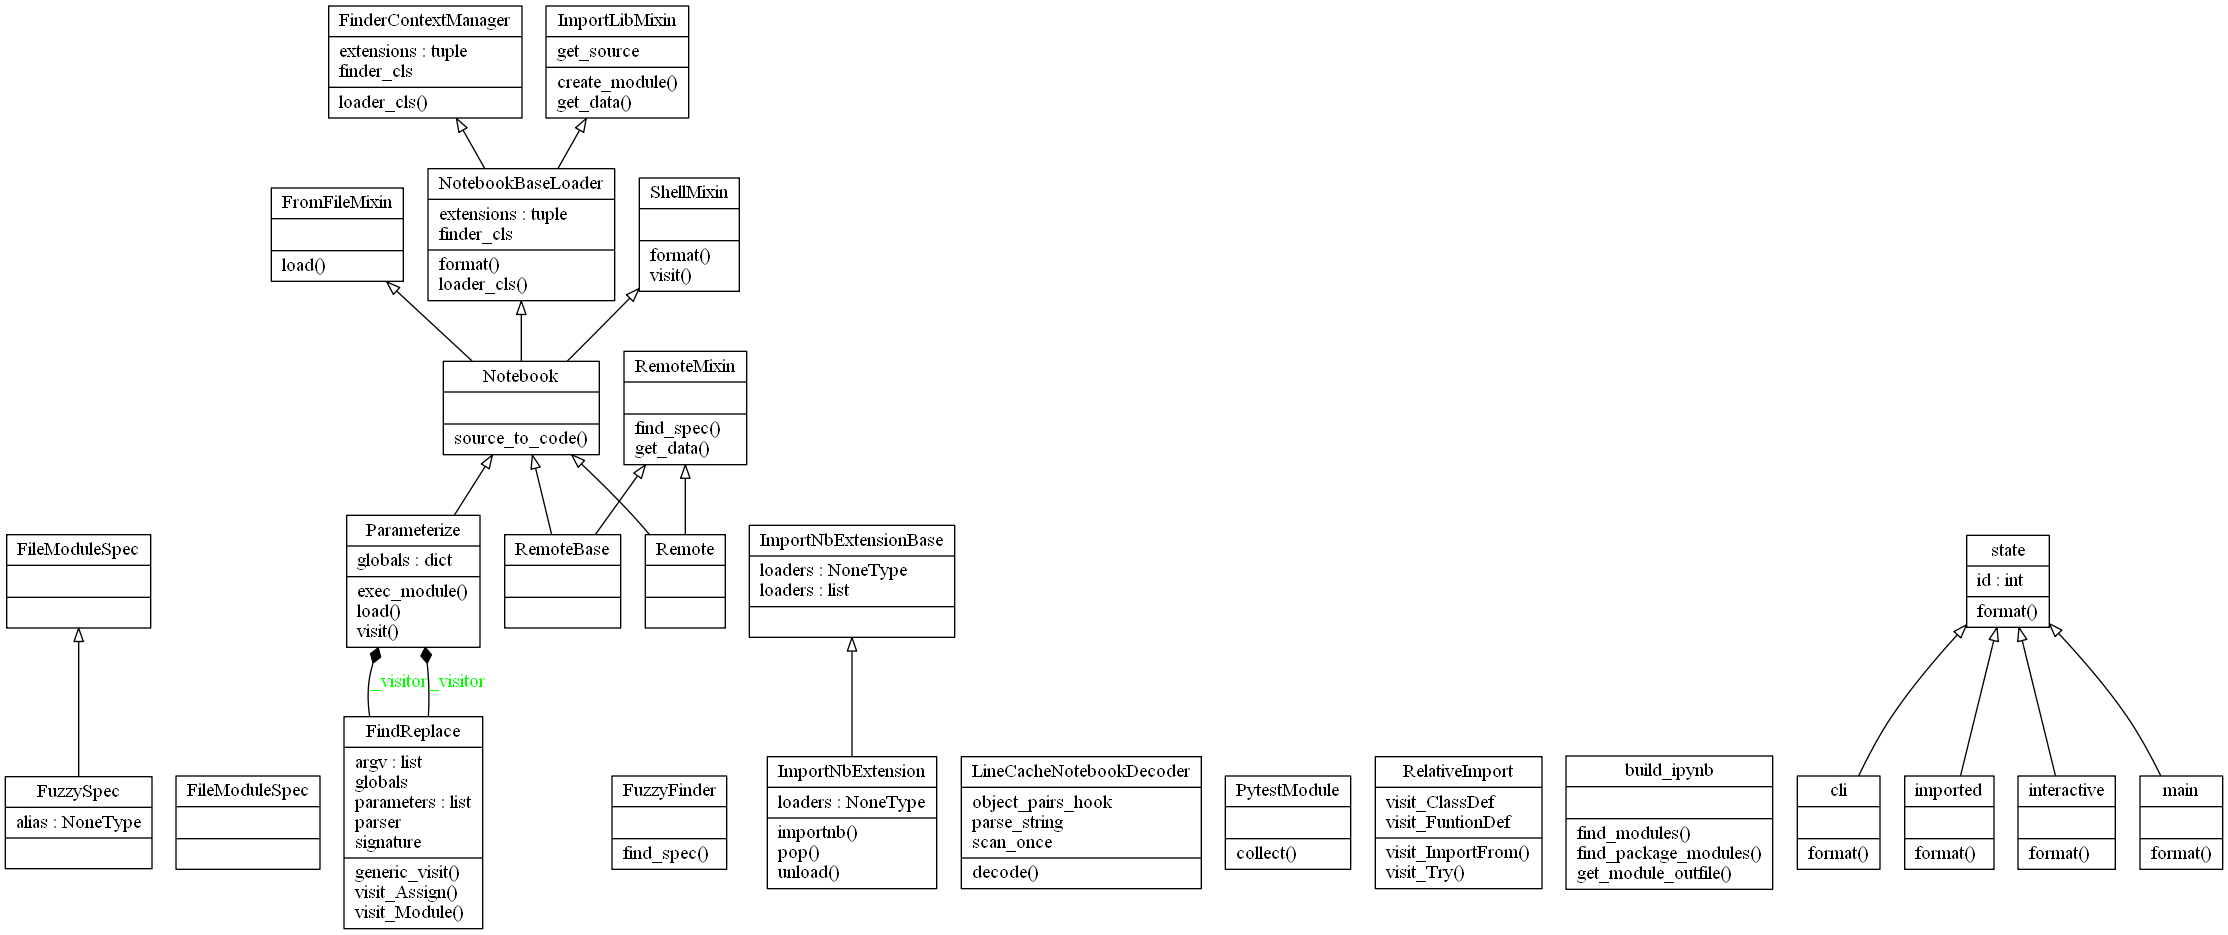
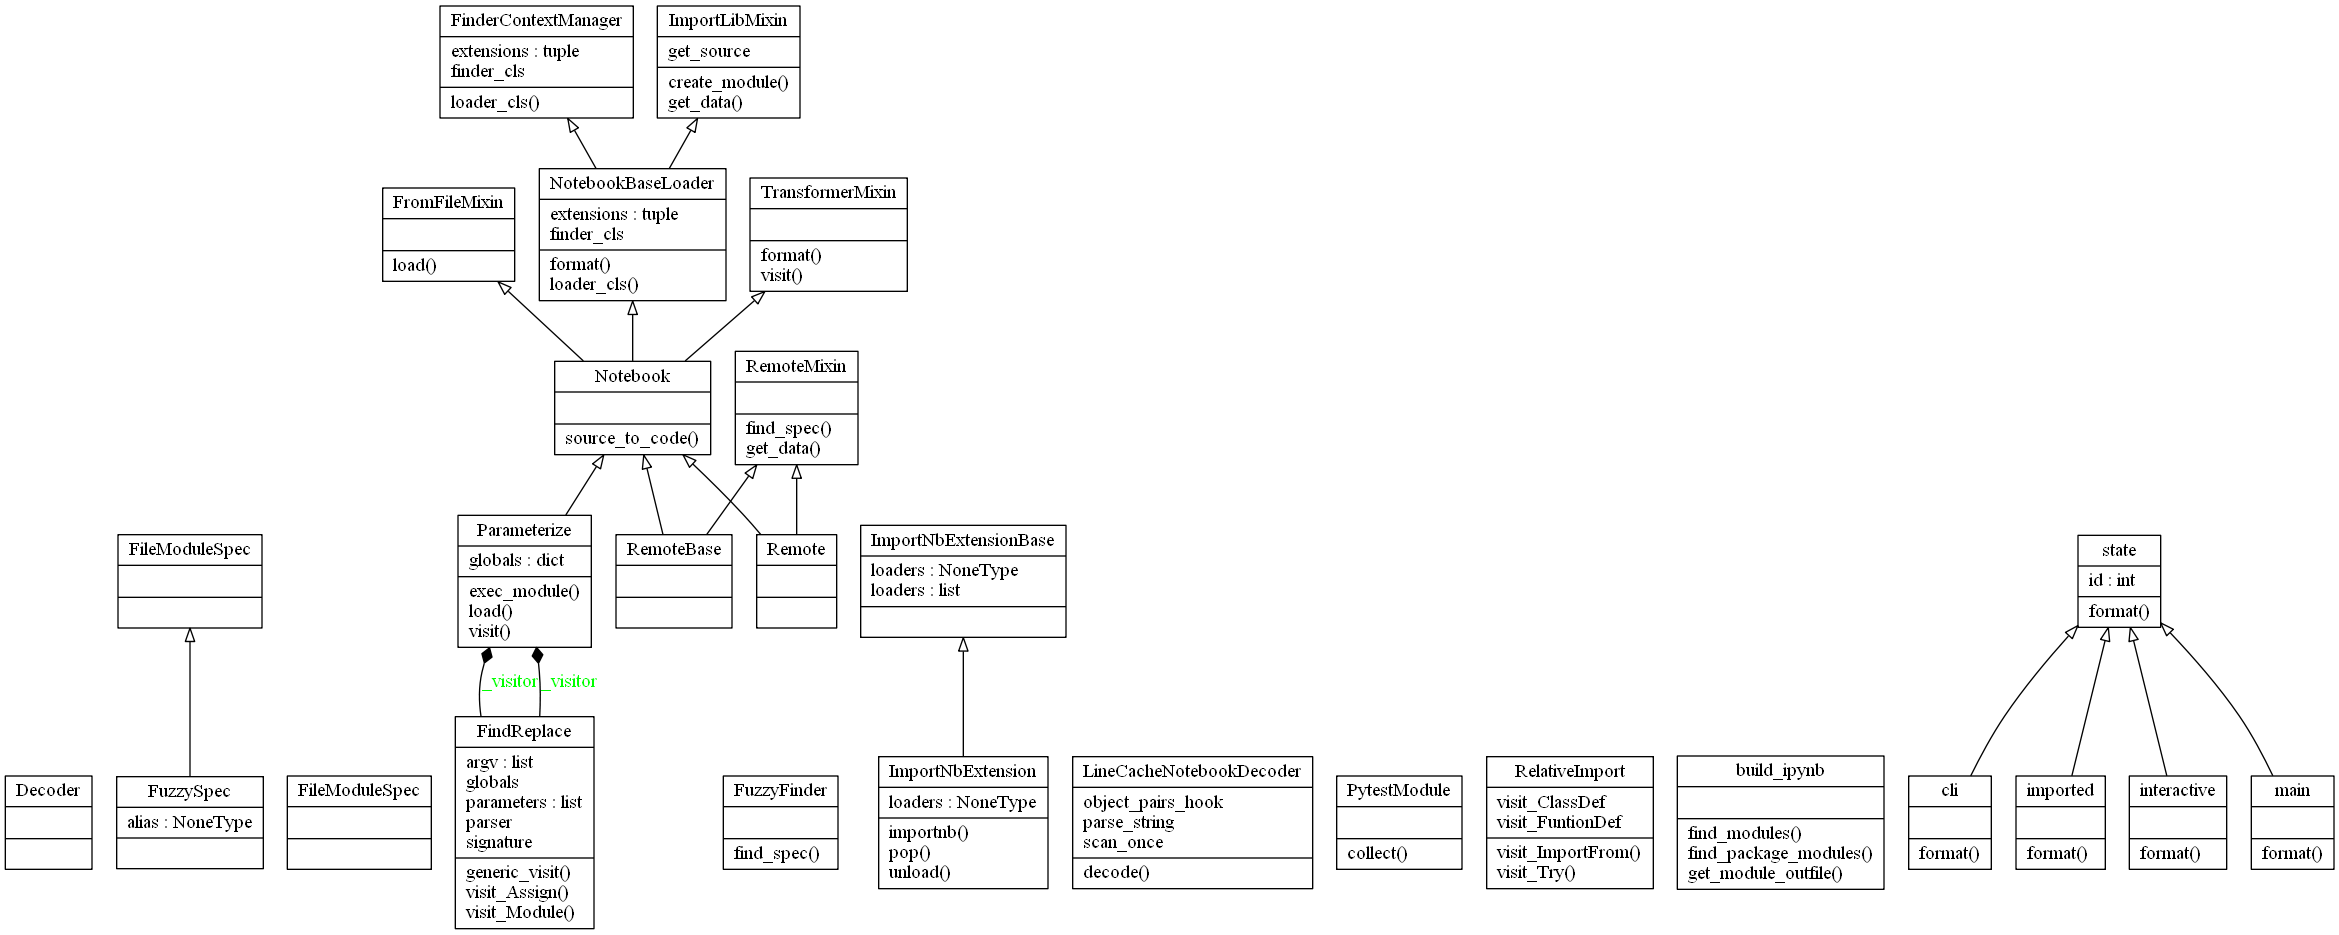
Remove the shell parameter from the loader (#73)
* Remove shell from the source.
* Remove shell from the pytest plugin
* Remove old shell, and add a placeholder to test the magic syntax. _The readme tests this ability for us._
* add updated UML.

diff --git a/src/importnb/loader.py b/src/importnb/loader.py
@@ -1,8 +1,6 @@
 # coding: utf-8
 """# `loader`
 
-`loader` is the main module for `importnb`.  It combines with the `finder` to use the Python import system to import notebooks.
-
 Combine the __import__ finder with the loader.
 
     >>> with Notebook():
@@ -119,6 +117,7 @@ class ImportLibMixin:
         return module
 
     def get_data(self, path):
+        """Needs to return the string source for the module."""
         return LineCacheNotebookDecoder(code=self.format).decode(
             decode_source(super().get_data(self.path)), self.path
         )
@@ -186,17 +185,16 @@ class FromFileMixin:
     """
 
     @classmethod
-    def load(cls, filename, dir=None, shell=True, main=False, **kwargs):
+    def load(cls, filename, dir=None, main=False, **kwargs):
         """Import a notebook as a module from a filename.
         
         dir: The directory to load the file from.
-        shell: Use the existing IPython shell.
         main: Load the module in the __main__ context.
         
         > assert Notebook.load('loader.ipynb')
         """
         name = main and "__main__" or Path(filename).stem
-        loader = cls(name, str(filename), shell=shell, **kwargs)
+        loader = cls(name, str(filename), **kwargs)
         module = module_from_spec(FileModuleSpec(name, loader, origin=loader.path))
         cwd = str(Path(loader.path).parent)
         try:
@@ -213,6 +211,9 @@ class FromFileMixin:
 """* Sometimes folks may want to use the current IPython shell to manage the code and input transformations.
 """
 
+"""Use the `IPythonInputSplitter` to dedent and process magic functions.
+"""
+
 try:
     from IPython.core.inputsplitter import IPythonInputSplitter
 
@@ -221,27 +222,11 @@ except:
     from textwrap import dedent
 
 
-class ShellMixin:
-    """ShellMixin allows the current IPython ast and input transformers to be used
-    while loading the module."""
-
-    def _get_ipython(self):
-        try:
-            return __import__("IPython").get_ipython()
-        except:
-            ...
-
+class TransformerMixin:
     def format(self, str):
-        shell = self._get_ipython()
-        return (
-            shell.input_transformer_manager.transform_cell if self._shell and shell else dedent
-        )(str)
+        return dedent(str)
 
     def visit(self, node):
-        shell = self._get_ipython()
-        if self._shell and shell:
-            for visitor in shell.ast_transformers:
-                node = visitor.visit(node)
         return node
 
 
@@ -249,7 +234,7 @@ class ShellMixin:
 """
 
 
-class Notebook(ShellMixin, FromFileMixin, NotebookBaseLoader):
+class Notebook(TransformerMixin, FromFileMixin, NotebookBaseLoader):
     """Notebook is a user friendly file finder and module loader for notebook source code.
     
     > Remember, restart and run all or it didn't happen.
@@ -259,7 +244,7 @@ class Notebook(ShellMixin, FromFileMixin, NotebookBaseLoader):
     * Lazy module loading.  A module is executed the first time it is used in a script.
     """
 
-    __slots__ = NotebookBaseLoader.__slots__ + ("_shell", "_main")
+    __slots__ = NotebookBaseLoader.__slots__ + ("_main",)
 
     def __init__(
         self,
@@ -267,13 +252,11 @@ class Notebook(ShellMixin, FromFileMixin, NotebookBaseLoader):
         path=None,
         lazy=False,
         position=0,
-        shell=False,
         fuzzy=True,
         markdown_docstring=True,
         main=False,
     ):
         self._main = bool(main) or fullname == "__main__"
-        self._shell = shell
         super().__init__(
             self._main and "__main__" or fullname,
             path,

diff --git a/src/importnb/parameterize.py b/src/importnb/parameterize.py
@@ -4,7 +4,10 @@
 The parameterize loader allows notebooks to be used as functions and command line tools.  A `Parameterize` loader will convert an literal ast assigments to keyword arguments for the module.
 """
 
-from .loader import Notebook, module_from_spec
+try:
+    from .loader import Notebook, module_from_spec
+except:
+    from loader import Notebook, module_from_spec
 import argparse, ast, inspect
 from functools import partial
 from copy import deepcopy
@@ -78,7 +81,6 @@ class Parameterize(Notebook):
         path=None,
         *,
         lazy=False,
-        shell=False,
         fuzzy=True,
         markdown_docstring=True,
         position=0,
@@ -86,9 +88,7 @@ class Parameterize(Notebook):
         main=False,
         **_globals
     ):
-        super().__init__(
-            fullname, path, lazy=lazy, fuzzy=fuzzy, shell=shell, position=position, main=main
-        )
+        super().__init__(fullname, path, lazy=lazy, fuzzy=fuzzy, position=position, main=main)
         self.globals = globals or {}
         self.globals.update(**_globals)
         self._visitor = FindReplace(self.globals, argparse.ArgumentParser(prog=self.name))

diff --git a/src/importnb/utils/pytest_plugin.py b/src/importnb/utils/pytest_plugin.py
@@ -12,9 +12,6 @@ loader = Notebook
 
 def pytest_addoption(parser):
     group = parser.getgroup("general")
-    group.addoption(
-        "--shell", action="store_false", help="Load notebooks with a shared transformer."
-    )
     group.addoption("--main", action="store_true", help="Run in the main context.")
 
 
@@ -32,10 +29,7 @@ def pytest_collect_file(parent, path):
 class PytestModule(pytest.Module):
     def collect(self):
         global loader
-        with loader(
-            self.parent.config.option.main and "__main__" or None,
-            shell=self.parent.config.option.shell,
-        ):
+        with loader(self.parent.config.option.main and "__main__" or None):
             return super().collect()
 
 
